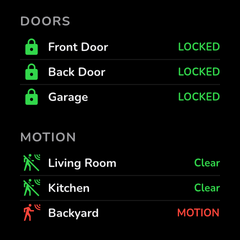
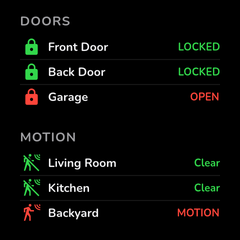
docs: show the garage open in the security sample
The sample already set `lock.garage` to "unlocked" and labelled it with
the on-text, so the committed image said LOCKED in green for a door that
is standing open: the same bug the Status widget had.

With a locked lock now reading as off, the sample's on/off labels are
the way round Home Assistant reads a lock (a binary_sensor with
device_class lock turns on into an open padlock), so OPEN is the on text
and the alarming colour. Front and back door keep their green LOCKED;
the garage turns red OPEN, and its icon is the open padlock.

Changed region(s): [[0.7292, 0.3792, 0.9333, 0.4375], [0.0875, 0.35, 0.175, 0.4375]]

diff --git a/scripts/generate_samples.py b/scripts/generate_samples.py
@@ -2156,10 +2156,14 @@ def generate_security(renderer: Renderer, output_dir: Path) -> None:
                     ("lock.back_door", "Back Door"),
                     ("lock.garage", "Garage"),
                 ],
-                "on_color": COLOR_LIME,
-                "off_color": COLOR_RED,
-                "on_text": "LOCKED",
-                "off_text": "OPEN",
+                # Home Assistant reads a lock as ON when it is UNLOCKED (a
+                # binary_sensor with device_class lock turns on into an open
+                # padlock), so "OPEN" is the on text and the alarming colour.
+                # LOCKED is the resting state.
+                "on_color": COLOR_RED,
+                "off_color": COLOR_LIME,
+                "on_text": "OPEN",
+                "off_text": "LOCKED",
             },
         )
     )
